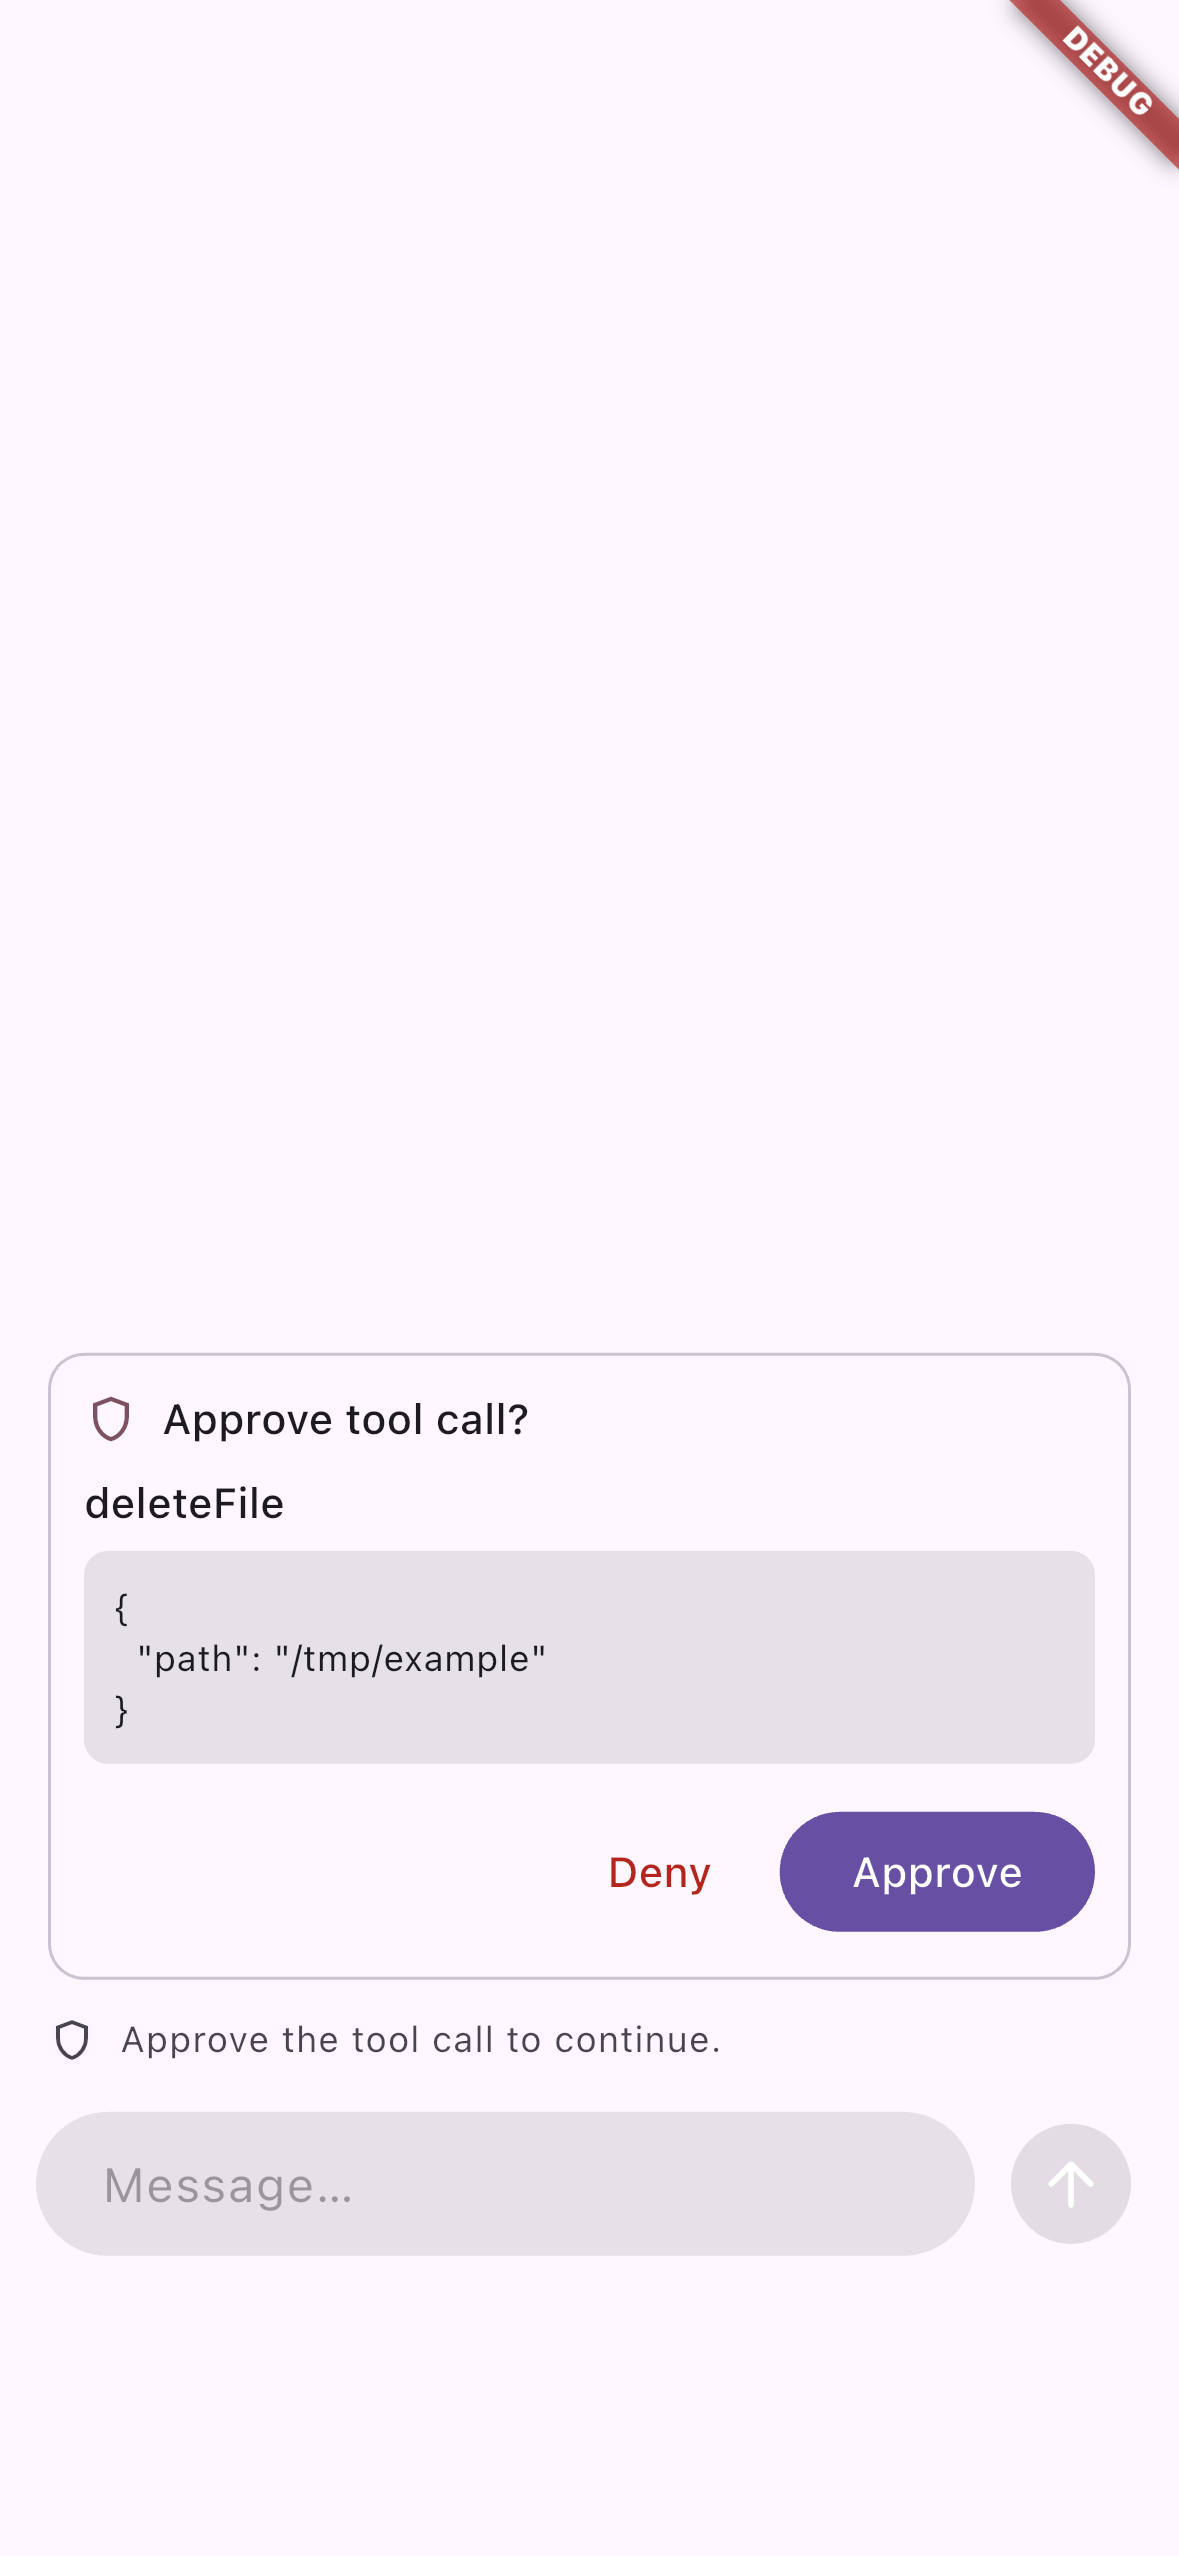
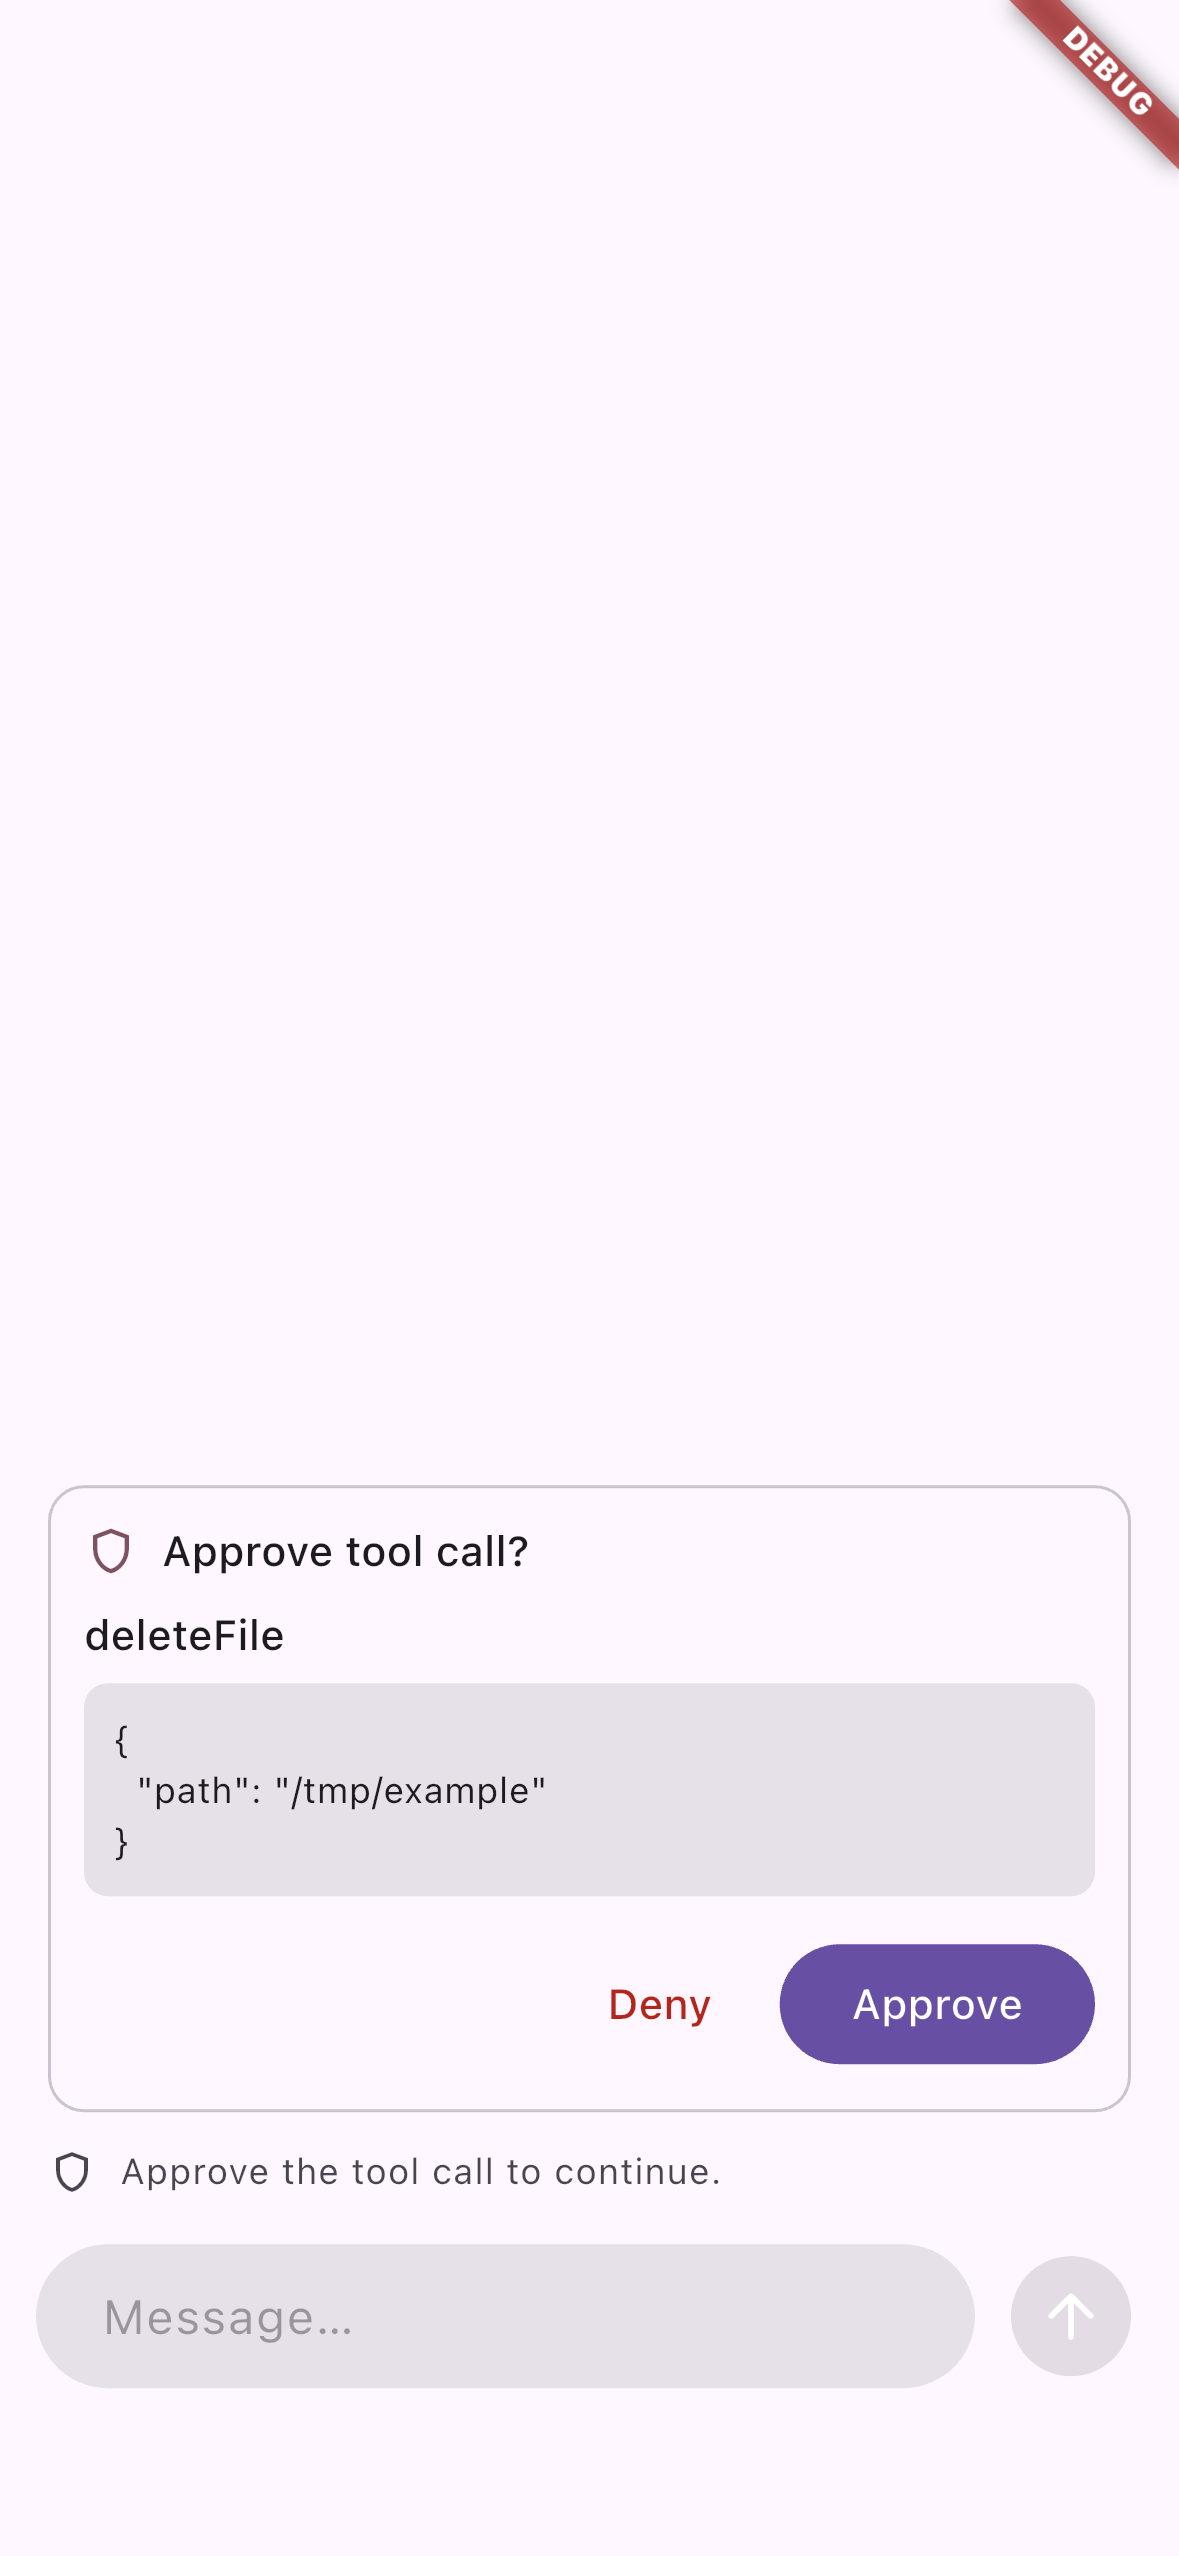
docs: attach final iOS simulator verification

diff --git a/docs/audits/2026-10-04-pr15-merge-review.md b/docs/audits/2026-10-04-pr15-merge-review.md
@@ -236,10 +236,18 @@ are closed; the verification record below describes the separate execution gates
 - Repository tooling: 22 tests passed. Catalog: 16 records across 9 providers.
 - Pinned JavaScript remote fixture: all 3 tests passed on local Node 24.21.0;
   hosted CI uses Node 22.
-- Baseline iOS run [37193586224](https://github.com/codenameakshay/ai_sdk_dart/actions/runs/37193586224)
+- Hosted [CI](https://github.com/codenameakshay/ai_sdk_dart/actions/runs/37197917799)
+  and all three [compatibility lanes](https://github.com/codenameakshay/ai_sdk_dart/actions/runs/37197917780)
+  passed at `8e1361b`: minimum Flutter 3.41.3 / Dart 3.11.1, pinned
+  Flutter 3.44.3 / Dart 3.12.2, and latest stable. Hosted coverage independently
+  reported the same 99.01% result.
+- Final-code iOS run [37197917882](https://github.com/codenameakshay/ai_sdk_dart/actions/runs/37197917882)
   passed both launches, with 9 screenshots per launch. The parent inspected the
-  pending-approval and restored-approved screenshots. This is scripted-model
-  simulator evidence at `b6d1c96`, not live provider evidence.
+  pending-approval and restored-approved screenshots and verified both launch
+  logs. This is scripted-model simulator evidence at `8e1361b`, not live provider
+  evidence. [Native evidence](assets/pr15-merge-ios.json) records toolchains,
+  screenshot hashes, and the tested commit. The evidence-only follow-up changes
+  documentation and assets; final-head checks remain visible on [PR #15](https://github.com/codenameakshay/ai_sdk_dart/pull/15/checks).
 - The final-code Flutter chat release web build and Wasm compilation dry run
   passed.
 - All five final-code Chromium browser flows passed: local approve/deny, remote text, and
